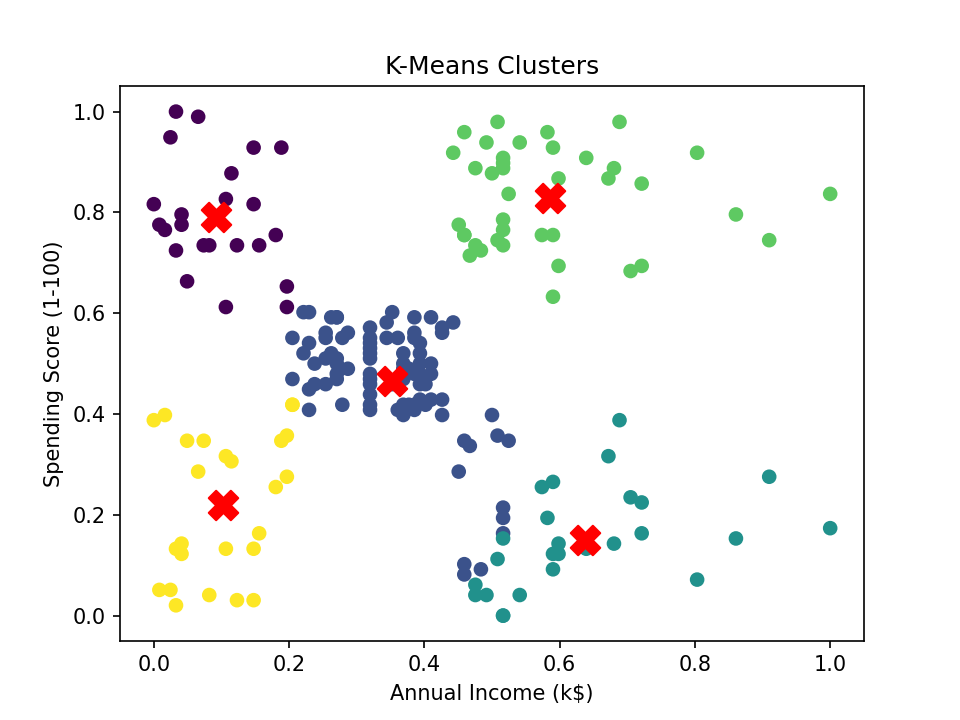
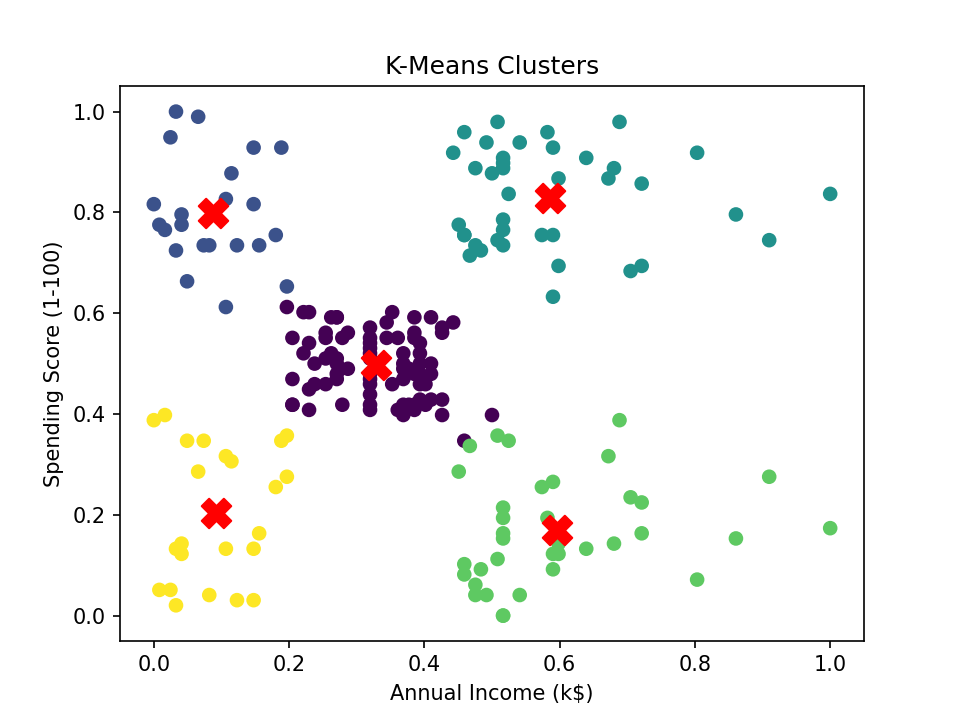
fix : n_init value

diff --git a/src/kmeans.py b/src/kmeans.py
@@ -1,7 +1,7 @@
 import numpy as np
 
 class Kmeans:
-    def __init__(self, k, max_iters=100, n_init=10):
+    def __init__(self, k, max_iters=100, n_init=100):
     # k = número de clusters, max_iters = limite de iterações para não rodar pra sempre
         self.k = k
         self.max_iters = max_iters
